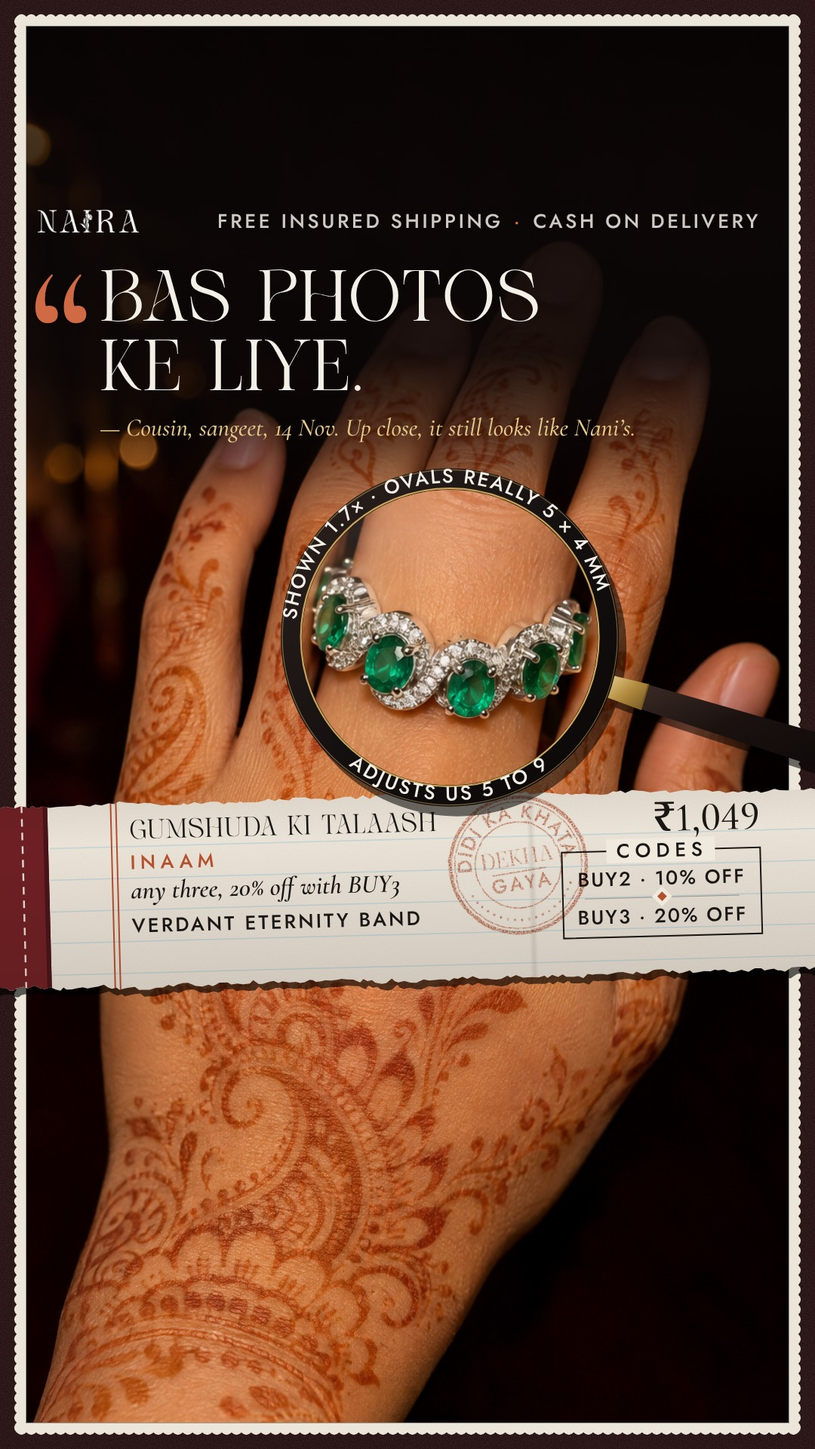
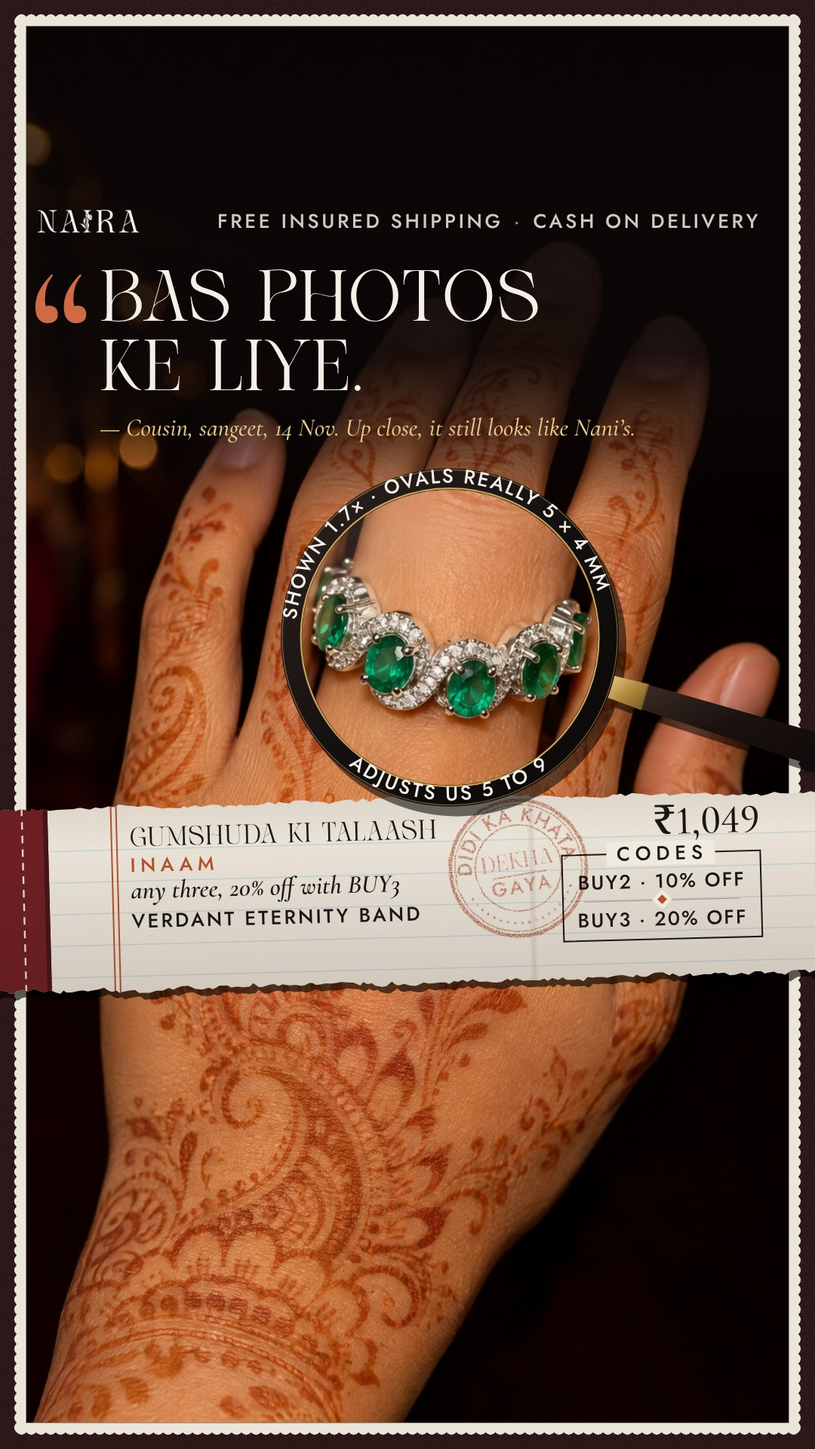
Crazy 100: batch progress
Claude-Session: https://claude.ai/code/session_015dHqE92KQXn2h19sPkpsQR

Changed region(s): [[0.0917, 0.5312, 1.0, 0.6875], [0.0, 0.6562, 0.0611, 0.6875]]

diff --git a/docs/creative/concept-50/batches/k06a/k06-3_V3_story.html b/docs/creative/concept-50/batches/k06a/k06-3_V3_story.html
@@ -56,7 +56,7 @@
 <p class="beat" style="left:132px;top:548px;font-size:33px;line-height:38px">— Cousin, sangeet, 14 Nov. Up close, it still looks like Nani’s.</p>
 <div class="strip" style="transform:rotate(-1.5deg)"><svg class="fx" width="1080" height="1920" viewBox="0 0 1080 1920" style="left:0;top:0;overflow:visible">
  <defs>
-  <clipPath id="kp6"><path d="M-40.0 1054.4 -32.3 1059.2 -25.2 1057.2 -18.0 1057.7 -10.4 1055.5 -1.9 1058.4 8.1 1054.8 12.4 1055.6 20.7 1057.6 28.6 1055.0 35.8 1056.2 39.7 1059.2 44.0 1054.8 50.0 1058.2 58.5 1056.0 66.8 1058.1 76.5 1057.2 84.8 1056.8 92.6 1056.8 99.9 1056.4 104.3 1055.2 108.4 1055.2 113.2 1056.2 120.4 1057.8 127.7 1055.3 135.9 1056.7 145.5 1054.1 152.9 1055.3 159.3 1051.9 169.2 1053.9 177.5 1054.4 183.6 1055.7 187.7 1055.4 192.8 1054.7 196.6 1055.2 200.7 1055.1 206.6 1056.7 216.5 1059.0 226.3 1058.0 230.5 1058.6 240.5 1058.8 244.9 1056.4 249.6 1058.7 259.4 1055.7 267.9 1058.0 276.0 1056.4 281.4 1055.4 291.2 1055.9 298.0 1059.3 304.1 1056.7 310.1 1057.3 314.4 1058.3 319.7 1056.2 323.9 1057.8 333.7 1057.5 340.5 1057.9 350.5 1056.2 357.1 1053.8 365.9 1056.8 371.4 1054.0 376.2 1055.5 385.4 1056.4 389.7 1053.1 396.9 1053.0 406.5 1053.0 413.5 1055.3 419.8 1055.2 427.8 1055.5 432.0 1056.4 437.3 1058.2 445.3 1056.2 449.5 1055.6 457.4 1053.7 466.6 1053.5 473.2 1057.2 478.0 1055.0 482.2 1052.2 491.5 1057.2 499.5 1052.9 508.6 1052.7 517.4 1051.3 525.3 1050.7 534.1 1049.7 539.9 1051.3 546.0 1053.8 554.7 1051.8 562.7 1055.7 569.2 1054.3 578.7 1053.3 588.3 1056.5 598.2 1058.9 606.8 1056.0 614.4 1056.6 619.3 1059.3 624.5 1056.2 634.5 1055.6 642.3 1057.3 649.0 1054.3 656.7 1054.7 664.1 1054.3 670.3 1053.6 680.3 1053.4 690.3 1055.5 699.1 1053.3 705.0 1057.1 709.8 1056.4 716.6 1055.9 720.9 1054.5 729.9 1055.8 735.6 1056.4 742.0 1057.2 748.1 1058.4 753.6 1056.5 758.5 1059.2 765.2 1057.6 769.8 1058.3 775.6 1057.4 784.3 1058.9 792.1 1059.1 797.7 1060.1 807.0 1059.2 814.4 1055.7 818.5 1056.5 824.2 1055.0 830.2 1058.4 839.1 1054.6 848.2 1055.7 853.5 1056.1 863.6 1058.4 869.0 1057.9 877.8 1056.8 883.7 1056.3 889.1 1059.5 899.0 1057.9 908.8 1056.4 914.0 1056.7 919.7 1057.9 927.5 1057.4 936.9 1056.6 946.1 1059.5 950.9 1059.0 955.3 1058.8 963.7 1061.8 973.1 1059.8 980.1 1061.6 987.8 1059.6 994.8 1061.7 1004.7 1059.8 1010.2 1062.8 1019.3 1060.7 1027.8 1058.1 1035.1 1059.9 1043.2 1060.3 1049.4 1060.6 1057.6 1059.2 1066.4 1060.7 1075.8 1058.2 1085.3 1060.9 1093.1 1057.8 1097.6 1061.7 1103.4 1062.3 1112.9 1062.2 1120.0 1059.6 L1120.0 1295.9 1117.5 1298.4 1111.7 1293.8 1102.7 1295.8 1093.1 1298.4 1084.6 1298.8 1076.8 1294.9 1068.0 1298.7 1062.3 1294.5 1058.3 1294.9 1053.8 1294.4 1044.7 1295.0 1035.7 1300.6 1030.2 1298.6 1026.0 1298.6 1021.2 1296.1 1013.2 1297.3 1008.6 1298.3 1004.5 1295.2 995.7 1295.1 987.2 1299.4 978.2 1296.5 969.0 1299.1 962.7 1299.3 955.1 1295.6 947.1 1296.4 943.0 1295.4 937.2 1297.5 928.6 1296.9 922.0 1298.0 913.8 1299.1 909.7 1295.4 900.7 1298.2 895.6 1299.1 886.6 1294.8 882.5 1297.5 873.9 1293.1 864.2 1293.2 860.3 1294.2 856.1 1296.5 851.4 1298.5 845.6 1298.2 838.9 1295.4 834.4 1298.4 828.7 1297.4 821.3 1295.5 814.1 1295.6 805.0 1297.3 800.0 1298.3 793.7 1297.3 785.1 1297.2 780.8 1297.9 774.2 1296.8 768.4 1302.1 761.6 1299.1 756.2 1300.0 752.3 1299.8 745.8 1299.6 741.0 1296.3 734.9 1299.7 727.1 1296.7 721.0 1300.6 716.9 1297.5 709.8 1299.5 700.1 1298.9 695.3 1299.1 688.4 1299.5 679.3 1295.6 671.9 1298.7 667.9 1296.2 659.8 1300.2 652.9 1301.1 646.2 1300.4 640.5 1299.2 630.6 1299.4 621.9 1295.6 614.4 1299.1 608.5 1296.1 602.0 1298.6 596.9 1297.5 590.5 1301.2 585.5 1299.1 578.4 1298.8 569.4 1299.5 564.0 1300.0 556.8 1298.3 546.8 1302.5 539.2 1302.0 531.0 1299.7 523.2 1301.3 518.6 1299.7 514.6 1295.8 507.4 1301.7 501.5 1302.8 492.4 1300.8 488.4 1297.4 482.3 1298.6 476.8 1295.6 472.5 1300.0 463.7 1296.0 455.6 1295.6 447.6 1294.7 443.8 1295.5 434.4 1296.6 426.4 1296.2 420.6 1297.1 414.0 1297.8 409.9 1295.4 405.8 1294.9 399.0 1297.9 393.4 1298.6 387.1 1297.1 378.9 1297.6 369.5 1295.9 364.5 1297.9 358.1 1295.0 352.6 1295.9 343.1 1298.6 338.3 1298.7 330.9 1293.3 326.3 1297.8 317.3 1298.4 309.7 1297.2 301.6 1298.3 296.9 1295.4 289.9 1295.4 286.0 1295.4 280.8 1298.3 276.9 1299.9 271.7 1297.8 263.1 1300.0 254.2 1298.9 244.6 1294.5 237.6 1294.6 230.5 1296.5 225.0 1299.1 218.6 1296.6 211.2 1300.0 202.2 1299.9 193.5 1302.4 183.9 1302.3 179.5 1302.5 174.1 1298.2 166.8 1298.7 161.2 1299.7 153.5 1301.5 149.3 1298.3 143.7 1300.0 138.6 1298.0 133.0 1294.2 125.1 1296.4 116.0 1297.8 111.4 1298.6 104.8 1297.0 95.7 1298.1 90.6 1299.3 83.3 1299.4 79.4 1296.5 75.2 1300.7 69.2 1299.0 62.5 1295.8 54.9 1297.8 49.0 1297.0 40.7 1293.1 31.7 1296.4 26.2 1294.2 16.6 1296.1 12.5 1299.0 8.0 1298.6 3.7 1295.3 -5.4 1294.8 -13.6 1297.0 -21.8 1300.3 -26.7 1295.2 -30.7 1297.4 -40.0 1300.0 Z"/></clipPath>
+  <clipPath id="kp6"><path d="M-40.0 1058.4 -32.3 1063.2 -25.2 1061.2 -18.0 1061.7 -10.4 1059.5 -1.9 1062.4 8.1 1058.8 12.4 1059.6 20.7 1061.6 28.6 1059.0 35.8 1060.2 39.7 1063.2 44.0 1058.8 50.0 1062.2 58.5 1060.0 66.8 1062.1 76.5 1061.2 84.8 1060.8 92.6 1060.8 99.9 1060.4 104.3 1059.2 108.4 1059.2 113.2 1060.2 120.4 1061.8 127.7 1059.3 135.9 1060.7 145.5 1058.1 152.9 1059.3 159.3 1055.9 169.2 1057.9 177.5 1058.4 183.6 1059.7 187.7 1059.4 192.8 1058.7 196.6 1059.2 200.7 1059.1 206.6 1060.7 216.5 1063.0 226.3 1062.0 230.5 1062.6 240.5 1062.8 244.9 1060.4 249.6 1062.7 259.4 1059.7 267.9 1062.0 276.0 1060.4 281.4 1059.4 291.2 1059.9 298.0 1063.3 304.1 1060.7 310.1 1061.3 314.4 1062.3 319.7 1060.2 323.9 1061.8 333.7 1061.5 340.5 1061.9 350.5 1060.2 357.1 1057.8 365.9 1060.8 371.4 1058.0 376.2 1059.5 385.4 1060.4 389.7 1057.1 396.9 1057.0 406.5 1057.0 413.5 1059.3 419.8 1059.2 427.8 1059.5 432.0 1060.4 437.3 1062.2 445.3 1060.2 449.5 1059.6 457.4 1057.7 466.6 1057.5 473.2 1061.2 478.0 1059.0 482.2 1056.2 491.5 1061.2 499.5 1056.9 508.6 1056.7 517.4 1055.3 525.3 1054.7 534.1 1053.7 539.9 1055.3 546.0 1057.8 554.7 1055.8 562.7 1059.7 569.2 1058.3 578.7 1057.3 588.3 1060.5 598.2 1062.9 606.8 1060.0 614.4 1060.6 619.3 1063.3 624.5 1060.2 634.5 1059.6 642.3 1061.3 649.0 1058.3 656.7 1058.7 664.1 1058.3 670.3 1057.6 680.3 1057.4 690.3 1059.5 699.1 1057.3 705.0 1061.1 709.8 1060.4 716.6 1059.9 720.9 1058.5 729.9 1059.8 735.6 1060.4 742.0 1061.2 748.1 1062.4 753.6 1060.5 758.5 1063.2 765.2 1061.6 769.8 1062.3 775.6 1061.4 784.3 1062.9 792.1 1063.1 797.7 1064.1 807.0 1063.2 814.4 1059.7 818.5 1060.5 824.2 1059.0 830.2 1062.4 839.1 1058.6 848.2 1059.7 853.5 1060.1 863.6 1062.4 869.0 1061.9 877.8 1060.8 883.7 1060.3 889.1 1063.5 899.0 1061.9 908.8 1060.4 914.0 1060.7 919.7 1061.9 927.5 1061.4 936.9 1060.6 946.1 1063.5 950.9 1063.0 955.3 1062.8 963.7 1065.8 973.1 1063.8 980.1 1065.6 987.8 1063.6 994.8 1065.7 1004.7 1063.8 1010.2 1066.8 1019.3 1064.7 1027.8 1062.1 1035.1 1063.9 1043.2 1064.3 1049.4 1064.6 1057.6 1063.2 1066.4 1064.7 1075.8 1062.2 1085.3 1064.9 1093.1 1061.8 1097.6 1065.7 1103.4 1066.3 1112.9 1066.2 1120.0 1063.6 L1120.0 1299.9 1117.5 1302.4 1111.7 1297.8 1102.7 1299.8 1093.1 1302.4 1084.6 1302.8 1076.8 1298.9 1068.0 1302.7 1062.3 1298.5 1058.3 1298.9 1053.8 1298.4 1044.7 1299.0 1035.7 1304.6 1030.2 1302.6 1026.0 1302.6 1021.2 1300.1 1013.2 1301.3 1008.6 1302.3 1004.5 1299.2 995.7 1299.1 987.2 1303.4 978.2 1300.5 969.0 1303.1 962.7 1303.3 955.1 1299.6 947.1 1300.4 943.0 1299.4 937.2 1301.5 928.6 1300.9 922.0 1302.0 913.8 1303.1 909.7 1299.4 900.7 1302.2 895.6 1303.1 886.6 1298.8 882.5 1301.5 873.9 1297.1 864.2 1297.2 860.3 1298.2 856.1 1300.5 851.4 1302.5 845.6 1302.2 838.9 1299.4 834.4 1302.4 828.7 1301.4 821.3 1299.5 814.1 1299.6 805.0 1301.3 800.0 1302.3 793.7 1301.3 785.1 1301.2 780.8 1301.9 774.2 1300.8 768.4 1306.1 761.6 1303.1 756.2 1304.0 752.3 1303.8 745.8 1303.6 741.0 1300.3 734.9 1303.7 727.1 1300.7 721.0 1304.6 716.9 1301.5 709.8 1303.5 700.1 1302.9 695.3 1303.1 688.4 1303.5 679.3 1299.6 671.9 1302.7 667.9 1300.2 659.8 1304.2 652.9 1305.1 646.2 1304.4 640.5 1303.2 630.6 1303.4 621.9 1299.6 614.4 1303.1 608.5 1300.1 602.0 1302.6 596.9 1301.5 590.5 1305.2 585.5 1303.1 578.4 1302.8 569.4 1303.5 564.0 1304.0 556.8 1302.3 546.8 1306.5 539.2 1306.0 531.0 1303.7 523.2 1305.3 518.6 1303.7 514.6 1299.8 507.4 1305.7 501.5 1306.8 492.4 1304.8 488.4 1301.4 482.3 1302.6 476.8 1299.6 472.5 1304.0 463.7 1300.0 455.6 1299.6 447.6 1298.7 443.8 1299.5 434.4 1300.6 426.4 1300.2 420.6 1301.1 414.0 1301.8 409.9 1299.4 405.8 1298.9 399.0 1301.9 393.4 1302.6 387.1 1301.1 378.9 1301.6 369.5 1299.9 364.5 1301.9 358.1 1299.0 352.6 1299.9 343.1 1302.6 338.3 1302.7 330.9 1297.3 326.3 1301.8 317.3 1302.4 309.7 1301.2 301.6 1302.3 296.9 1299.4 289.9 1299.4 286.0 1299.4 280.8 1302.3 276.9 1303.9 271.7 1301.8 263.1 1304.0 254.2 1302.9 244.6 1298.5 237.6 1298.6 230.5 1300.5 225.0 1303.1 218.6 1300.6 211.2 1304.0 202.2 1303.9 193.5 1306.4 183.9 1306.3 179.5 1306.5 174.1 1302.2 166.8 1302.7 161.2 1303.7 153.5 1305.5 149.3 1302.3 143.7 1304.0 138.6 1302.0 133.0 1298.2 125.1 1300.4 116.0 1301.8 111.4 1302.6 104.8 1301.0 95.7 1302.1 90.6 1303.3 83.3 1303.4 79.4 1300.5 75.2 1304.7 69.2 1303.0 62.5 1299.8 54.9 1301.8 49.0 1301.0 40.7 1297.1 31.7 1300.4 26.2 1298.2 16.6 1300.1 12.5 1303.0 8.0 1302.6 3.7 1299.3 -5.4 1298.8 -13.6 1301.0 -21.8 1304.3 -26.7 1299.2 -30.7 1301.4 -40.0 1304.0 Z"/></clipPath>
   <filter id="kn6" x="0" y="0" width="100%" height="100%"><feTurbulence type="fractalNoise" baseFrequency=".9" numOctaves="2" seed="17"/>
    <feColorMatrix values="0 0 0 0 .45  0 0 0 0 .35  0 0 0 0 .25  0 0 0 .19 0"/><feComposite in2="SourceGraphic" operator="in"/></filter>
   <linearGradient id="kg6" x1="0" x2="1" y1="0" y2="0"><stop offset="0" stop-color="#2A1A12" stop-opacity="0"/>
@@ -65,24 +65,24 @@
   <linearGradient id="kv6" x1="0" x2="0" y1="0" y2="1"><stop offset="0" stop-color="#2A1A12" stop-opacity=".08"/><stop offset=".25" stop-color="#2A1A12" stop-opacity="0"/>
    <stop offset="1" stop-color="#2A1A12" stop-opacity=".14"/></linearGradient>
  </defs>
- <path d="M-40.0 1054.4 -32.3 1059.2 -25.2 1057.2 -18.0 1057.7 -10.4 1055.5 -1.9 1058.4 8.1 1054.8 12.4 1055.6 20.7 1057.6 28.6 1055.0 35.8 1056.2 39.7 1059.2 44.0 1054.8 50.0 1058.2 58.5 1056.0 66.8 1058.1 76.5 1057.2 84.8 1056.8 92.6 1056.8 99.9 1056.4 104.3 1055.2 108.4 1055.2 113.2 1056.2 120.4 1057.8 127.7 1055.3 135.9 1056.7 145.5 1054.1 152.9 1055.3 159.3 1051.9 169.2 1053.9 177.5 1054.4 183.6 1055.7 187.7 1055.4 192.8 1054.7 196.6 1055.2 200.7 1055.1 206.6 1056.7 216.5 1059.0 226.3 1058.0 230.5 1058.6 240.5 1058.8 244.9 1056.4 249.6 1058.7 259.4 1055.7 267.9 1058.0 276.0 1056.4 281.4 1055.4 291.2 1055.9 298.0 1059.3 304.1 1056.7 310.1 1057.3 314.4 1058.3 319.7 1056.2 323.9 1057.8 333.7 1057.5 340.5 1057.9 350.5 1056.2 357.1 1053.8 365.9 1056.8 371.4 1054.0 376.2 1055.5 385.4 1056.4 389.7 1053.1 396.9 1053.0 406.5 1053.0 413.5 1055.3 419.8 1055.2 427.8 1055.5 432.0 1056.4 437.3 1058.2 445.3 1056.2 449.5 1055.6 457.4 1053.7 466.6 1053.5 473.2 1057.2 478.0 1055.0 482.2 1052.2 491.5 1057.2 499.5 1052.9 508.6 1052.7 517.4 1051.3 525.3 1050.7 534.1 1049.7 539.9 1051.3 546.0 1053.8 554.7 1051.8 562.7 1055.7 569.2 1054.3 578.7 1053.3 588.3 1056.5 598.2 1058.9 606.8 1056.0 614.4 1056.6 619.3 1059.3 624.5 1056.2 634.5 1055.6 642.3 1057.3 649.0 1054.3 656.7 1054.7 664.1 1054.3 670.3 1053.6 680.3 1053.4 690.3 1055.5 699.1 1053.3 705.0 1057.1 709.8 1056.4 716.6 1055.9 720.9 1054.5 729.9 1055.8 735.6 1056.4 742.0 1057.2 748.1 1058.4 753.6 1056.5 758.5 1059.2 765.2 1057.6 769.8 1058.3 775.6 1057.4 784.3 1058.9 792.1 1059.1 797.7 1060.1 807.0 1059.2 814.4 1055.7 818.5 1056.5 824.2 1055.0 830.2 1058.4 839.1 1054.6 848.2 1055.7 853.5 1056.1 863.6 1058.4 869.0 1057.9 877.8 1056.8 883.7 1056.3 889.1 1059.5 899.0 1057.9 908.8 1056.4 914.0 1056.7 919.7 1057.9 927.5 1057.4 936.9 1056.6 946.1 1059.5 950.9 1059.0 955.3 1058.8 963.7 1061.8 973.1 1059.8 980.1 1061.6 987.8 1059.6 994.8 1061.7 1004.7 1059.8 1010.2 1062.8 1019.3 1060.7 1027.8 1058.1 1035.1 1059.9 1043.2 1060.3 1049.4 1060.6 1057.6 1059.2 1066.4 1060.7 1075.8 1058.2 1085.3 1060.9 1093.1 1057.8 1097.6 1061.7 1103.4 1062.3 1112.9 1062.2 1120.0 1059.6 L1120.0 1295.9 1117.5 1298.4 1111.7 1293.8 1102.7 1295.8 1093.1 1298.4 1084.6 1298.8 1076.8 1294.9 1068.0 1298.7 1062.3 1294.5 1058.3 1294.9 1053.8 1294.4 1044.7 1295.0 1035.7 1300.6 1030.2 1298.6 1026.0 1298.6 1021.2 1296.1 1013.2 1297.3 1008.6 1298.3 1004.5 1295.2 995.7 1295.1 987.2 1299.4 978.2 1296.5 969.0 1299.1 962.7 1299.3 955.1 1295.6 947.1 1296.4 943.0 1295.4 937.2 1297.5 928.6 1296.9 922.0 1298.0 913.8 1299.1 909.7 1295.4 900.7 1298.2 895.6 1299.1 886.6 1294.8 882.5 1297.5 873.9 1293.1 864.2 1293.2 860.3 1294.2 856.1 1296.5 851.4 1298.5 845.6 1298.2 838.9 1295.4 834.4 1298.4 828.7 1297.4 821.3 1295.5 814.1 1295.6 805.0 1297.3 800.0 1298.3 793.7 1297.3 785.1 1297.2 780.8 1297.9 774.2 1296.8 768.4 1302.1 761.6 1299.1 756.2 1300.0 752.3 1299.8 745.8 1299.6 741.0 1296.3 734.9 1299.7 727.1 1296.7 721.0 1300.6 716.9 1297.5 709.8 1299.5 700.1 1298.9 695.3 1299.1 688.4 1299.5 679.3 1295.6 671.9 1298.7 667.9 1296.2 659.8 1300.2 652.9 1301.1 646.2 1300.4 640.5 1299.2 630.6 1299.4 621.9 1295.6 614.4 1299.1 608.5 1296.1 602.0 1298.6 596.9 1297.5 590.5 1301.2 585.5 1299.1 578.4 1298.8 569.4 1299.5 564.0 1300.0 556.8 1298.3 546.8 1302.5 539.2 1302.0 531.0 1299.7 523.2 1301.3 518.6 1299.7 514.6 1295.8 507.4 1301.7 501.5 1302.8 492.4 1300.8 488.4 1297.4 482.3 1298.6 476.8 1295.6 472.5 1300.0 463.7 1296.0 455.6 1295.6 447.6 1294.7 443.8 1295.5 434.4 1296.6 426.4 1296.2 420.6 1297.1 414.0 1297.8 409.9 1295.4 405.8 1294.9 399.0 1297.9 393.4 1298.6 387.1 1297.1 378.9 1297.6 369.5 1295.9 364.5 1297.9 358.1 1295.0 352.6 1295.9 343.1 1298.6 338.3 1298.7 330.9 1293.3 326.3 1297.8 317.3 1298.4 309.7 1297.2 301.6 1298.3 296.9 1295.4 289.9 1295.4 286.0 1295.4 280.8 1298.3 276.9 1299.9 271.7 1297.8 263.1 1300.0 254.2 1298.9 244.6 1294.5 237.6 1294.6 230.5 1296.5 225.0 1299.1 218.6 1296.6 211.2 1300.0 202.2 1299.9 193.5 1302.4 183.9 1302.3 179.5 1302.5 174.1 1298.2 166.8 1298.7 161.2 1299.7 153.5 1301.5 149.3 1298.3 143.7 1300.0 138.6 1298.0 133.0 1294.2 125.1 1296.4 116.0 1297.8 111.4 1298.6 104.8 1297.0 95.7 1298.1 90.6 1299.3 83.3 1299.4 79.4 1296.5 75.2 1300.7 69.2 1299.0 62.5 1295.8 54.9 1297.8 49.0 1297.0 40.7 1293.1 31.7 1296.4 26.2 1294.2 16.6 1296.1 12.5 1299.0 8.0 1298.6 3.7 1295.3 -5.4 1294.8 -13.6 1297.0 -21.8 1300.3 -26.7 1295.2 -30.7 1297.4 -40.0 1300.0 Z" fill="#000" opacity=".62" transform="translate(7 9)"/>
+ <path d="M-40.0 1058.4 -32.3 1063.2 -25.2 1061.2 -18.0 1061.7 -10.4 1059.5 -1.9 1062.4 8.1 1058.8 12.4 1059.6 20.7 1061.6 28.6 1059.0 35.8 1060.2 39.7 1063.2 44.0 1058.8 50.0 1062.2 58.5 1060.0 66.8 1062.1 76.5 1061.2 84.8 1060.8 92.6 1060.8 99.9 1060.4 104.3 1059.2 108.4 1059.2 113.2 1060.2 120.4 1061.8 127.7 1059.3 135.9 1060.7 145.5 1058.1 152.9 1059.3 159.3 1055.9 169.2 1057.9 177.5 1058.4 183.6 1059.7 187.7 1059.4 192.8 1058.7 196.6 1059.2 200.7 1059.1 206.6 1060.7 216.5 1063.0 226.3 1062.0 230.5 1062.6 240.5 1062.8 244.9 1060.4 249.6 1062.7 259.4 1059.7 267.9 1062.0 276.0 1060.4 281.4 1059.4 291.2 1059.9 298.0 1063.3 304.1 1060.7 310.1 1061.3 314.4 1062.3 319.7 1060.2 323.9 1061.8 333.7 1061.5 340.5 1061.9 350.5 1060.2 357.1 1057.8 365.9 1060.8 371.4 1058.0 376.2 1059.5 385.4 1060.4 389.7 1057.1 396.9 1057.0 406.5 1057.0 413.5 1059.3 419.8 1059.2 427.8 1059.5 432.0 1060.4 437.3 1062.2 445.3 1060.2 449.5 1059.6 457.4 1057.7 466.6 1057.5 473.2 1061.2 478.0 1059.0 482.2 1056.2 491.5 1061.2 499.5 1056.9 508.6 1056.7 517.4 1055.3 525.3 1054.7 534.1 1053.7 539.9 1055.3 546.0 1057.8 554.7 1055.8 562.7 1059.7 569.2 1058.3 578.7 1057.3 588.3 1060.5 598.2 1062.9 606.8 1060.0 614.4 1060.6 619.3 1063.3 624.5 1060.2 634.5 1059.6 642.3 1061.3 649.0 1058.3 656.7 1058.7 664.1 1058.3 670.3 1057.6 680.3 1057.4 690.3 1059.5 699.1 1057.3 705.0 1061.1 709.8 1060.4 716.6 1059.9 720.9 1058.5 729.9 1059.8 735.6 1060.4 742.0 1061.2 748.1 1062.4 753.6 1060.5 758.5 1063.2 765.2 1061.6 769.8 1062.3 775.6 1061.4 784.3 1062.9 792.1 1063.1 797.7 1064.1 807.0 1063.2 814.4 1059.7 818.5 1060.5 824.2 1059.0 830.2 1062.4 839.1 1058.6 848.2 1059.7 853.5 1060.1 863.6 1062.4 869.0 1061.9 877.8 1060.8 883.7 1060.3 889.1 1063.5 899.0 1061.9 908.8 1060.4 914.0 1060.7 919.7 1061.9 927.5 1061.4 936.9 1060.6 946.1 1063.5 950.9 1063.0 955.3 1062.8 963.7 1065.8 973.1 1063.8 980.1 1065.6 987.8 1063.6 994.8 1065.7 1004.7 1063.8 1010.2 1066.8 1019.3 1064.7 1027.8 1062.1 1035.1 1063.9 1043.2 1064.3 1049.4 1064.6 1057.6 1063.2 1066.4 1064.7 1075.8 1062.2 1085.3 1064.9 1093.1 1061.8 1097.6 1065.7 1103.4 1066.3 1112.9 1066.2 1120.0 1063.6 L1120.0 1299.9 1117.5 1302.4 1111.7 1297.8 1102.7 1299.8 1093.1 1302.4 1084.6 1302.8 1076.8 1298.9 1068.0 1302.7 1062.3 1298.5 1058.3 1298.9 1053.8 1298.4 1044.7 1299.0 1035.7 1304.6 1030.2 1302.6 1026.0 1302.6 1021.2 1300.1 1013.2 1301.3 1008.6 1302.3 1004.5 1299.2 995.7 1299.1 987.2 1303.4 978.2 1300.5 969.0 1303.1 962.7 1303.3 955.1 1299.6 947.1 1300.4 943.0 1299.4 937.2 1301.5 928.6 1300.9 922.0 1302.0 913.8 1303.1 909.7 1299.4 900.7 1302.2 895.6 1303.1 886.6 1298.8 882.5 1301.5 873.9 1297.1 864.2 1297.2 860.3 1298.2 856.1 1300.5 851.4 1302.5 845.6 1302.2 838.9 1299.4 834.4 1302.4 828.7 1301.4 821.3 1299.5 814.1 1299.6 805.0 1301.3 800.0 1302.3 793.7 1301.3 785.1 1301.2 780.8 1301.9 774.2 1300.8 768.4 1306.1 761.6 1303.1 756.2 1304.0 752.3 1303.8 745.8 1303.6 741.0 1300.3 734.9 1303.7 727.1 1300.7 721.0 1304.6 716.9 1301.5 709.8 1303.5 700.1 1302.9 695.3 1303.1 688.4 1303.5 679.3 1299.6 671.9 1302.7 667.9 1300.2 659.8 1304.2 652.9 1305.1 646.2 1304.4 640.5 1303.2 630.6 1303.4 621.9 1299.6 614.4 1303.1 608.5 1300.1 602.0 1302.6 596.9 1301.5 590.5 1305.2 585.5 1303.1 578.4 1302.8 569.4 1303.5 564.0 1304.0 556.8 1302.3 546.8 1306.5 539.2 1306.0 531.0 1303.7 523.2 1305.3 518.6 1303.7 514.6 1299.8 507.4 1305.7 501.5 1306.8 492.4 1304.8 488.4 1301.4 482.3 1302.6 476.8 1299.6 472.5 1304.0 463.7 1300.0 455.6 1299.6 447.6 1298.7 443.8 1299.5 434.4 1300.6 426.4 1300.2 420.6 1301.1 414.0 1301.8 409.9 1299.4 405.8 1298.9 399.0 1301.9 393.4 1302.6 387.1 1301.1 378.9 1301.6 369.5 1299.9 364.5 1301.9 358.1 1299.0 352.6 1299.9 343.1 1302.6 338.3 1302.7 330.9 1297.3 326.3 1301.8 317.3 1302.4 309.7 1301.2 301.6 1302.3 296.9 1299.4 289.9 1299.4 286.0 1299.4 280.8 1302.3 276.9 1303.9 271.7 1301.8 263.1 1304.0 254.2 1302.9 244.6 1298.5 237.6 1298.6 230.5 1300.5 225.0 1303.1 218.6 1300.6 211.2 1304.0 202.2 1303.9 193.5 1306.4 183.9 1306.3 179.5 1306.5 174.1 1302.2 166.8 1302.7 161.2 1303.7 153.5 1305.5 149.3 1302.3 143.7 1304.0 138.6 1302.0 133.0 1298.2 125.1 1300.4 116.0 1301.8 111.4 1302.6 104.8 1301.0 95.7 1302.1 90.6 1303.3 83.3 1303.4 79.4 1300.5 75.2 1304.7 69.2 1303.0 62.5 1299.8 54.9 1301.8 49.0 1301.0 40.7 1297.1 31.7 1300.4 26.2 1298.2 16.6 1300.1 12.5 1303.0 8.0 1302.6 3.7 1299.3 -5.4 1298.8 -13.6 1301.0 -21.8 1304.3 -26.7 1299.2 -30.7 1301.4 -40.0 1304.0 Z" fill="#000" opacity=".62" transform="translate(7 9)"/>
  <g clip-path="url(#kp6)">
-  <rect x="-60" y="1036" width="1200" height="284" fill="#EFE9DE"/>
-  <rect x="-60" y="1036" width="1200" height="284" fill="#000" filter="url(#kn6)"/>
-  <g stroke="#9EC3D6" stroke-opacity=".5" stroke-width="1.5"><line x1="66" x2="1120" y1="1112" y2="1112"/><line x1="66" x2="1120" y1="1154" y2="1154"/><line x1="66" x2="1120" y1="1196" y2="1196"/><line x1="66" x2="1120" y1="1238" y2="1238"/><line x1="66" x2="1120" y1="1280" y2="1280"/></g>
-  <line x1="148" x2="148" y1="1036" y2="1320" stroke="#B5502F" stroke-width="2"/>
-  <line x1="155" x2="155" y1="1036" y2="1320" stroke="#B5502F" stroke-width="2"/>
-  <rect x="634" y="1036" width="140" height="284" fill="url(#kg6)"/>
-  <rect x="-60" y="1036" width="124" height="284" fill="#6E1F23"/><rect x="58" y="1036" width="6" height="284" fill="#47131A"/><line x1="30" x2="30" y1="1036" y2="1320" stroke="#F4F0E8" stroke-opacity=".9" stroke-width="2.4" stroke-dasharray="10 8"/>
-  <rect x="-60" y="1036" width="1200" height="284" fill="url(#kv6)"/>
+  <rect x="-60" y="1040" width="1200" height="284" fill="#EFE9DE"/>
+  <rect x="-60" y="1040" width="1200" height="284" fill="#000" filter="url(#kn6)"/>
+  <g stroke="#9EC3D6" stroke-opacity=".5" stroke-width="1.5"><line x1="66" x2="1120" y1="1116" y2="1116"/><line x1="66" x2="1120" y1="1158" y2="1158"/><line x1="66" x2="1120" y1="1200" y2="1200"/><line x1="66" x2="1120" y1="1242" y2="1242"/><line x1="66" x2="1120" y1="1284" y2="1284"/></g>
+  <line x1="148" x2="148" y1="1040" y2="1324" stroke="#B5502F" stroke-width="2"/>
+  <line x1="155" x2="155" y1="1040" y2="1324" stroke="#B5502F" stroke-width="2"/>
+  <rect x="634" y="1040" width="140" height="284" fill="url(#kg6)"/>
+  <rect x="-60" y="1040" width="124" height="284" fill="#6E1F23"/><rect x="58" y="1040" width="6" height="284" fill="#47131A"/><line x1="30" x2="30" y1="1040" y2="1324" stroke="#F4F0E8" stroke-opacity=".9" stroke-width="2.4" stroke-dasharray="10 8"/>
+  <rect x="-60" y="1040" width="1200" height="284" fill="url(#kv6)"/>
  </g>
 </svg>
-<p class="t kick" style="left:172px;top:1074px;font-size:36px">Gumshuda ki talaash</p>
-<p class="t lab t2" style="left:172px;top:1116px;letter-spacing:.24em">Inaam</p>
+<p class="t kick" style="left:172px;top:1084px;font-size:36px">Gumshuda ki talaash</p>
+<p class="t lab t2" style="left:172px;top:1120px;letter-spacing:.24em">Inaam</p>
 <p class="t rew" style="left:172px;top:1154px;font-size:34px">any three, 20% off with BUY3</p>
-<p class="t lab" style="left:172px;top:1200px;color:var(--ink);letter-spacing:.12em">Verdant Eternity Band</p>
-<div class="pg" style="right:72px;top:1066px"><div class="price" style="font-size:54px">₹1,049</div><div style="margin-top:14px"><div class="ob"><span class="lg">Codes</span>BUY2 · 10% off<span class="sep"></span>BUY3 · 20% off</div></div></div>
-<svg class="fx stamp" width="216" height="216" viewBox="578 1042 216 216" style="left:578px;top:1042px">
+<p class="t lab" style="left:172px;top:1194px;color:var(--ink);letter-spacing:.12em">Verdant Eternity Band</p>
+<div class="pg" style="right:72px;top:1070px"><div class="price" style="font-size:54px">₹1,049</div><div style="margin-top:14px"><div class="ob"><span class="lg">Codes</span>BUY2 · 10% off<span class="sep"></span>BUY3 · 20% off</div></div></div>
+<svg class="fx stamp" width="216" height="216" viewBox="578 1046 216 216" style="left:578px;top:1046px">
  <defs>
   <filter id="sd6" x="-10%" y="-10%" width="120%" height="120%">
    <feTurbulence type="fractalNoise" baseFrequency=".05" numOctaves="2" seed="11" result="w"/>
@@ -90,17 +90,17 @@
    <feTurbulence type="fractalNoise" baseFrequency=".6" numOctaves="2" seed="14" result="n"/>
    <feColorMatrix in="n" values="0 0 0 0 0  0 0 0 0 0  0 0 0 0 0  0 0 0 -2.2 1.62" result="m"/>
    <feComposite in="d" in2="m" operator="in"/></filter>
-  <path id="st6" d="M627.7 1171.2 A62 62 0 1 1 744.3 1171.2"/>
+  <path id="st6" d="M627.7 1175.2 A62 62 0 1 1 744.3 1175.2"/>
  </defs>
- <g transform="rotate(-8 686 1150)" filter="url(#sd6)" fill="#B5502F" stroke="#B5502F">
-  <circle cx="686" cy="1150" r="90" fill="none" stroke-width="4.5"/>
-  <circle cx="686" cy="1150" r="84" fill="none" stroke-width="1.4"/>
-  <circle cx="686" cy="1150" r="57" fill="none" stroke-width="1.6"/>
+ <g transform="rotate(-8 686 1154)" filter="url(#sd6)" fill="#B5502F" stroke="#B5502F">
+  <circle cx="686" cy="1154" r="90" fill="none" stroke-width="4.5"/>
+  <circle cx="686" cy="1154" r="84" fill="none" stroke-width="1.4"/>
+  <circle cx="686" cy="1154" r="57" fill="none" stroke-width="1.6"/>
   <text stroke="none" font-family="Jost" font-weight="500" font-size="26" letter-spacing="1.2"><textPath href="#st6" startOffset="50%" text-anchor="middle">DIDI KA KHATA</textPath></text>
-  <path d="M619.8 1180.9 A73 73 0 0 0 752.2 1180.9" fill="none" stroke-width="3.2" stroke-dasharray="0.1 9.4" stroke-linecap="round"/>
-  <text x="686" y="1150" stroke="none" text-anchor="middle" font-family="Velista" font-size="30" letter-spacing="1" style="font-feature-settings:'liga' 0,'calt' 0">DEKHA</text>
-  <line x1="650" x2="722" y1="1159" y2="1159" stroke-width="1.4"/>
-  <text x="688" y="1183" stroke="none" text-anchor="middle" font-family="Jost" font-weight="500" font-size="26" letter-spacing="4">GAYA</text>
+  <path d="M619.8 1184.9 A73 73 0 0 0 752.2 1184.9" fill="none" stroke-width="3.2" stroke-dasharray="0.1 9.4" stroke-linecap="round"/>
+  <text x="686" y="1154" stroke="none" text-anchor="middle" font-family="Velista" font-size="30" letter-spacing="1" style="font-feature-settings:'liga' 0,'calt' 0">DEKHA</text>
+  <line x1="650" x2="722" y1="1163" y2="1163" stroke-width="1.4"/>
+  <text x="688" y="1187" stroke="none" text-anchor="middle" font-family="Jost" font-weight="500" font-size="26" letter-spacing="4">GAYA</text>
  </g>
 </svg></div>
 <div class="loupe"><div class="lens" style="left:400.1px;top:648.6px;width:392px;height:392px"><img src="pics/k06-3A.png" style="width:1845.71px;height:3264.00px;left:-822.18px;top:-1239.89px"><div class="glass"></div></div><svg class="fx" width="1080" height="1920" viewBox="0 0 1080 1920" style="left:0;top:0">

diff --git a/docs/creative/concept-50/batches/k05a/k05-3_V3_story.html b/docs/creative/concept-50/batches/k05a/k05-3_V3_story.html
@@ -1,0 +1,70 @@
+<!doctype html><html><head><meta charset="utf-8"><link rel="stylesheet" href="../../../ads-500/kit/kit.css">
+<!-- k05-3 V3 story (draft) -->
+<style>
+ body { background: #EED5AB; }
+ :root { --shade: #31271C; --wall: #EED5AB; }
+ .kick { position: absolute; left: 72px; top: 280px; font-family: var(--sans); font-weight: 500; font-size: 26px; line-height: 32px;
+         letter-spacing: .14em; text-transform: uppercase; color: var(--ink); white-space: nowrap; }
+ .obj { position: absolute; left: 72px; top: 354px; font-size: 112px; white-space: nowrap; }
+ svg.ts { position: absolute; inset: 0; width: 1080px; height: 1920px; mix-blend-mode: multiply; pointer-events: none; overflow: visible; }
+ svg.ts text { font-family: "Cormorant Garamond", serif; font-style: italic; font-weight: 500; fill: var(--shade); }
+ .hr { position: absolute; font-family: var(--sans); font-weight: 500; font-size: 26px; line-height: 32px; letter-spacing: .14em;
+       text-transform: uppercase; color: var(--ink); white-space: nowrap; }
+ .card2 { position: absolute; left: 72px; width: 300px; color: var(--ink); }
+ .card2 .wm { height: 30px; display: block; }
+ .card2 .name { font-family: var(--sans); font-weight: 600; font-size: 26px; line-height: 30px; letter-spacing: .01em; margin-top: 14px; white-space: nowrap; }
+ .card2 .price { font-family: var(--serif); font-weight: 500; font-size: 56px; line-height: 48px; margin-top: 8px; }
+ .card2 .line { font-family: var(--sans); font-weight: 400; font-size: 26px; line-height: 30px; letter-spacing: .01em; margin-top: 10px; white-space: nowrap; }
+ .card2 .codes { position: relative; margin-top: 30px; border: 1.5px solid var(--ink); padding: 16px 18px 7px; width: 284px; }
+ .card2 .codes .lg { position: absolute; top: -16px; left: 12px; background: var(--wall); padding: 0 9px; font-family: var(--sans); font-weight: 500;
+       font-size: 26px; line-height: 30px; letter-spacing: .16em; text-transform: uppercase; }
+ .card2 .codes .row { font-family: var(--sans); font-weight: 500; font-size: 26px; line-height: 30px; letter-spacing: .14em; text-transform: uppercase; white-space: nowrap; }
+ .card2 .codes .div { position: relative; height: 10px; }
+ .card2 .codes .div:before { content: ""; position: absolute; left: 0; right: 0; top: 5px; border-top: 1px solid rgba(26,22,20,.3); }
+ .card2 .codes .div i { position: absolute; left: 50%; top: .5px; width: 9px; height: 9px; margin-left: -5px; background: var(--coral-deep); transform: rotate(45deg); }
+ .card2 .trust { font-family: var(--sans); font-weight: 500; font-size: 22px; line-height: 26px; letter-spacing: .12em; text-transform: uppercase; margin-top: 14px; white-space: nowrap; }
+</style></head>
+<body class="story">
+ <img class="pic" src="pics/k05-3R.png" alt="">
+ <div class="kick">Is one bangle<br>enough?</div>
+ <p class="h1 obj">One.</p>
+ <svg class="ts" viewBox="0 0 1080 1920">
+  <defs>
+   <filter id="soft" x="-20%" y="-20%" width="140%" height="140%"><feGaussianBlur stdDeviation="1.1"/></filter>
+   <filter id="pen" x="-5%" y="-5%" width="110%" height="110%"><feGaussianBlur stdDeviation=".5"/></filter>
+   <g id="sl">
+    <line x1="40" y1="510" x2="330" y2="582.5"/>
+    <line x1="40" y1="543" x2="330" y2="615.5"/>
+    <line x1="40" y1="590" x2="330" y2="662.5"/>
+    <line x1="40" y1="621" x2="330" y2="693.5"/>
+    <line x1="40" y1="662" x2="330" y2="734.5"/>
+    <line x1="40" y1="690" x2="330" y2="762.5"/>
+    <line x1="40" y1="775.5" x2="330" y2="848"/>
+   </g>
+   <mask id="cut" maskUnits="userSpaceOnUse" x="0" y="0" width="1080" height="1920">
+    <rect width="1080" height="1920" fill="#fff"/>
+    <use href="#sl" stroke="#000" stroke-width="6" filter="url(#soft)"/>
+   </mask>
+   <clipPath id="word"><text font-size="156" transform="translate(120 486) rotate(90)">stack.</text></clipPath>
+  </defs>
+  <g mask="url(#cut)" filter="url(#pen)"><text font-size="156" transform="translate(120 486) rotate(90)">stack.</text></g>
+  <g clip-path="url(#word)"><use href="#sl" stroke="#E7B46E" stroke-width="4.5" stroke-opacity=".75" filter="url(#soft)"/></g>
+ </svg>
+ <svg class="overlay" viewBox="0 0 1080 1920">
+  <g stroke="#1A1614" stroke-width="1.5" fill="none">
+   <circle cx="7" cy="767.3" r="7" fill="#1A1614" stroke="none"/>
+   <line x1="14" y1="769" x2="96" y2="789.6" stroke-opacity=".6"/>
+   <line x1="240" y1="825.6" x2="400.6" y2="865.7" stroke-opacity=".6"/>
+   <circle cx="405.5" cy="866.9" r="5"/>
+  </g>
+ </svg>
+ <div class="hr" style="left:258px;top:706px">4:29 PM<br>21 Dec</div>
+ <div class="card2" style="top:872px">
+  <img class="wm" src="../../../ads-500/kit/logo_ink.png" alt="Naira">
+  <div class="name">Triple Coil Wrap Bangle.</div>
+  <div class="price">₹1,149</div>
+  <div class="line">two turns · 6 cm inside</div>
+  <div class="codes"><span class="lg">Codes</span><div class="row">BUY2 · 10% off</div><div class="div"><i></i></div><div class="row">BUY3 · 20% off</div></div>
+  <div class="trust">Free insured shipping ·<br>Cash on delivery</div>
+ </div>
+</body></html>

diff --git a/docs/creative/concept-50/batches/k07a/verify/k07-5.md b/docs/creative/concept-50/batches/k07a/verify/k07-5.md
@@ -111,3 +111,118 @@ Keep every lock, braid, disc and colour clause verbatim: they worked.
 - **Story:** the H1 on the cords at 270-440, the pair at about 711-941, and the F2 at 1000-1250 on clean wall.
 - **Feed** (P about 0-10): the LOG at 84, the H1 at 140-400 over the cords, the tags on the cords just above each holder (about 400-560), the pair at about 707-936, and the F2 at 950-1266 with the beat as its first line.
 - **Size line:** "HOOPS 25 MM" (plain, under 19 px per mm).
+
+## Redo
+
+- **Take checked:** R, `pics/k07-5R.png` (job 923e2d00-a083-47af-9f2b-92b62ac3ce8e), **1536x2720**, requested and served **seedream_v5_pro** (2k, 9:16, use_unlim false, 2.5 credits). One submission, accepted first time (no 429). The same two references went in as image references (74ed9a2b... packshot, b77ec5ba... detail). Logged in `jobs_redo.json` (no URL).
+- **Why seedream, not "same model":** take A was made on gpt_image_2_6. The run rule says a redo of a gpt_image_2_6 take tries the other faithful model, and it overrides the fix clause's "same model" line.
+- **Prompt:** take A's prompt with all five fixes above written in word for word: the black iron hooks plus the no-ring sentence, the squat 38 mm near holder, the percentage COMPOSITION clause, the 11 cm field of view, and the optional shadow direction. Every lock, braid, disc and colour clause is unchanged.
+  - One extra edit for consistency: SCALE's "small dark contact shadows where each latch wire meets the holder" became "where each black hook meets its hoop", because the latch wire no longer touches the holder.
+  - Two sentences name last time's faults: the invented gold jump ring, and the holder and pair drawn too big and too low.
+- **Crops (all looked at with Read):** scratchpad `k07a_verify/k07-5R/`.
+  - Overview: `R_half.png`.
+  - Detail: `R_pair_1x.png`, `R_left_2x.png`, `R_right_2x.png`, `R_left_top_4x.png`, `R_right_top_4x.png`, `R_glint_left_4x.png`, `R_glint_right_4x.png`.
+  - Against the refs: `sbs_ref03_RL_RR_ref01.png` (ref 03 front hoop, R left, R right, ref 01 standing hoop, all at equal height).
+  - Measurement: `R_grid.png` (50 px source grid, auto-contrast).
+  - Whole frame: `R_equalize.png` (text sweep), `R_stop200.png` (A, R and R's Feed crop at P 100, each 200 px wide), `R_feed_sheet.png` (P 0, 59, 80 and 100 with the LOG, H1 and F2 950-1266 zones drawn), `R_story.png` (H1 270-440, F2 1000-1250 and the 1250 floor).
+
+### Verdict: R FAILS. Choice: none (k07-5 still has no shippable plate)
+
+R fixes A's lock fault. No gold loop or jump ring is left anywhere: two matte-black iron hooks come down from the near holder's rim and each one holds a hoop by its latch wire, so nothing gold touches the holder. The **left hoop is the best Woven match in this run**: hinge barrel with its pin hole, latch wire into a forked catch, one disc, and an open chevron plait, all matching ref 03 at 2x and 4x. R still fails on two counts:
+
+1. **Lock (a second disc on the right hoop).** On the hinge side, the right hoop carries a polished oval plate the same size as its latch-side disc. The plate hangs under a lumpy, twisted knuckle instead of ref 03's clean ribbed barrel (`R_right_top_4x.png`, the third panel of `sbs_ref03_RL_RR_ref01.png`). So that hoop shows two discs, which the lock forbids ("never two discs"). The two hoops of the pair are no longer identical. The fault shows at 1x and in the Feed.
+2. **Composition (worse than A).** The model ignored the percentage clause and drew the near holder tall rather than squat: about 420 px wide and 593 px high, 1.41 times taller than wide.
+   - The rim sits 44.9% of the way down (asked 37%).
+   - The pair runs from 50.4% to 66.5% of the frame height (asked to end by 49%).
+   - The far holders' rims sit at 50.9% and 57.2% (asked 40% and 44%).
+   - The wall below 51% is not calm: the pair and both far holders hang there.
+   - In the Story the pair lands at y 968-1278. That is entirely under the planned F2 card (1000-1250) and 28 px below the 1250 text floor, so no Story layout keeps the card off the piece.
+
+### 1. Construction and counts (2x and 4x against ref 1 and ref 2)
+
+| Lock element | Ref 1 / ref 2 | Take R |
+|---|---|---|
+| 2 round hoops, identical | yes | **no.** Similar size (L 288 x 407 px with the knuckle, R 274 x 394 px), but the right hoop has the extra plate and a malformed knuckle |
+| Round, never oval | the standing hoops in both refs are turned about 40° and read 0.72-0.75 wide-to-tall | both hoops are turned the same way and read 0.70-0.71, the same view as the refs. The inner opening is foreshortened consistently. They read as round hoops seen at an angle, not ovals: **pass (note)** |
+| Open plait of paired polished wires in chevrons over a see-through core | yes | yes: many polished round wires in chevrons, dark gaps, a finer core. The wires are finer and more numerous than in the refs. At 4x the core reads a little fibrous or brushed rather than as distinct fine wires (`R_glint_left_4x.png`). No tube, simple twist or mesh: **pass (note)** |
+| Braid 5-6 mm | ~0.23 of the diameter | ~80-90 px of ~385 = 0.21-0.23, about 5.3-5.8 mm: **pass** |
+| 1 flat round disc on the front at the top, latch side | 1 per hoop, ~0.24-0.32 of the diameter | left: 1 disc on the latch side, ~107 px tall = 0.28: **pass**. Right: the latch-side disc is correct, **plus a second disc-sized polished plate on the hinge side: FAIL** |
+| Hinge knuckle at the top on the other side | ribbed barrel with a pin hole | left: a ribbed barrel with a pin hole, as ref 03: pass. Right: a lumpy twisted knuckle: **fail (part of fault 1)** |
+| 1 thin hinged latch wire, closed into a forked catch above the disc | yes | both hoops: closed, the tip just past the catch: **pass** |
+| 0 stones, no bottom loop | yes | yes |
+| Nothing added (A's fault) | nothing above the knuckle | **fixed.** No gold ring, loop, bail or hook on either hoop. Each black iron hook passes over the latch wire beside the knuckle and meets nothing gold on the holder |
+| Hang per brief: pair on the first holder only, other two empty, no bulbs | n/a | yes, yes, yes. The hoops hang just below the rim rather than inside the bulb's place: the "they are the light" read is a little weaker than in A |
+
+### 2. Colour and brightness
+
+- **Metal hue:** median 33.9° on both hoops, identical to ref 1 and ref 2 (33.9°). p10-p90 28-38°. Saturation 0.62-0.64 against 0.57-0.58: richer, never amber or orange. Olive (46°+) is 0.2%. Disc, knuckle, latch wire and braid share one tone. **Pass.**
+- **Brightness:** the hoops are the most saturated thing in the frame, but not the brightest.
+  - The metal body sits at L p50 107-115 (p95 193-195). Specular pinpoints reach 255.
+  - The headlight's glow at the left frame edge (src x 0-60, y 1380-1600) sits at L p50 231.
+  - A volumetric beam crosses the lower-left wall (p50 160, p95 218).
+  - This bends the camp's "no lamp brighter than the piece" rule (the glow is the source, not a visible lamp). **Note.** The beam also puts a bright diagonal band under the Feed and Story card zones.
+- **Star glints:** two small soft four-point sparkles on the left hoop's left edge (`R_glint_left_4x.png`). They are small, but the prompt said none. **Note.**
+
+### 3. Scale
+
+- Hoop outer diameter is about 385 src px (the braid ring's height, knuckle excluded), so 25 mm = **15.4 src px/mm**.
+  - **Feed:** k = 1080/1536 = 0.703, **10.8 px per mm**. Story: 0.706, 10.9 px per mm.
+  - Under 19 px per mm, so the size line is plain: **"HOOPS 25 MM"**. No giant or tiny play.
+- **Near holder:** the rim is about 420 px, which is only about 27 mm at the hoops' scale.
+  - The hoop is 0.92x the rim width (asked about 0.66-0.71), and the pair spans 1.32 holder widths (asked 1.5).
+  - Against a 35-38 mm B22 holder the hoops read about 1.3-1.4x. A 27-30 mm E14 holder is real, though, and the holder size is not printed. **Note.** Never print "HOLDERS 35 MM" with this plate.
+
+### 4. Faces, text, extra jewellery, hands, water
+
+- No faces, eyes, brows, people or hands.
+- No text, letters, numbers, logos or markings anywhere: checked on the equalised frame (`R_equalize.png`), including the holders, ceiling, window and banister.
+- One product (the pair). No glass bulbs, no glow from the holders, the empty holders empty. No water.
+
+### 5. Idea and stop power
+
+- **Delivered:** a blue-green Kolkata stairwell, peeling ceiling, three black bakelite holders on twisted flex. The near one is sharp, and the other two step down to the right, softer.
+  - The pair hangs on black iron hooks under the near holder.
+  - A scooter-headlight shaft slants up from the lower left through haze, past the pair. A barred, dusty window and the banister sit at the lower right.
+  - The light logic is now right: the beam comes from the lower left, and the hoops are lit from that side.
+- **The idea reads:** one fitting "fitted" with gold, two still empty. It is more cinematic than A, but the hook hang makes it read a little more like "earrings hung under a light" than "earrings as the bulb".
+- **Crazy 6/10.**
+- **Stop at 200 px 8/10** (`R_stop200.png`). The diagonal beam, the gold pair and the three-holder rhythm all read, and the Feed crop at P 100 is stronger than A's. At 200 px the right hoop's two discs show as two pale dots.
+
+### 6. Room for type
+
+All values are display px. Piece (pair) src box: x 363-919, y 1371-1810. Near holder src x 447-867, y 627-1220. Holder 2 src x ~905-1175, y ~995-1385. Holder 3 src x ~1152-1377, y ~1250-1557.
+
+- **Story** (Hd 1912.5 < 1920, so the cover scale is 1920/2720 = 0.706 and the frame is fixed).
+  - The pair sits at **y 968-1278**, x 254-647. The near holder sits at 443-861, holder 2 at y 702-978 (x 637-827), holder 3 at y 882-1099 (x 811-970).
+  - The planned F2 (1000-1250) would cover the whole pair, and the pair's lower edge is below the 1250 floor.
+  - No free wall that could take a card is left inside the text zone: the only clear strips are 140-200 px wide, at the left (x 40-240) and the right (x 980-1040).
+  - **Fault.**
+- **Feed** (T = 562.5 x P/100).
+  - At P 0 the pair is at 964-1273, under the F2.
+  - The pair clears an F2 at 950-1266 from **P 59** up (pair at 631-940), and clears the planned beat at 780-860 only from P 88.
+  - **At P 100** the pair sits at 401-710. The near holder runs from -121 to 295 and its cord is out of frame. Holder 2 sits at 137-411 and holder 3 at 316-532. The F2 at 950-1266 lands on the beam band and banister, so it needs its own plate.
+  - At any workable P (59-100) the H1 (140-400) is set over the near holder. As with A, the socket tags lose their slots:
+    - near tag: no visible cord (only y 0-108 at P 59, under the LOG);
+    - holder 2 tag: inside the H1 band;
+    - holder 3 tag: fits at about 470-540 at P 59.
+  - **Workable only with compromises.**
+
+### Take summary
+
+| Take | Verdict | Faults | Crazy | Stop200 |
+|---|---|---|---|---|
+| A | fail | invented gold jump ring; group too big and central (Story card over the pair) | 6 | 7 |
+| R | **fail** | second disc and malformed knuckle on the right hoop (lock); holder tall, pair at 50-66% of the height (asked to end by 49%), so the Story card covers the whole pair; notes: headlight glow and beam brighter than the metal body, two small star glints, holder small against the hoops | 6 | 8 |
+
+### If another take is funded (not done here: this role had one regeneration)
+
+1. **Stay on seedream_v5_pro and keep R's prompt.** The hook clause worked: no gold loop. The left hoop is a reference match.
+2. **Pin the hinge end.** After "the other end is a small hinge knuckle with no disc", add:
+   > On the hinge side each hoop ends in only a small ribbed barrel knuckle with a pin hole, sitting on a short polished cap no wider than the braid, exactly as in reference 2; never a flat disc, oval plate, cup or lump there. Both hoops are exact copies of each other.
+3. **Composition.** Both models drew the group about 40% of the frame height and too low, whatever the shares said. Describe the frame instead of percentages:
+   > The camera looks slightly up at the holders, which hang high in the frame; the near holder is a short, wide cup, as wide as it is tall; the bottoms of the hoops are just below the middle of the frame; the whole lower half of the frame is empty wall, stair window and banister.
+
+   Also say the second and third holders' rims sit just below the near holder's rim, not lower.
+4. **Light.** Add:
+   > the headlight's beam is a soft dim warm streak on the wall, never a bright shaft, haze or glowing hot spot; nothing in the frame is brighter than the hoops' highlights.
+5. **Keep the size line at "HOOPS 25 MM" alone.**
